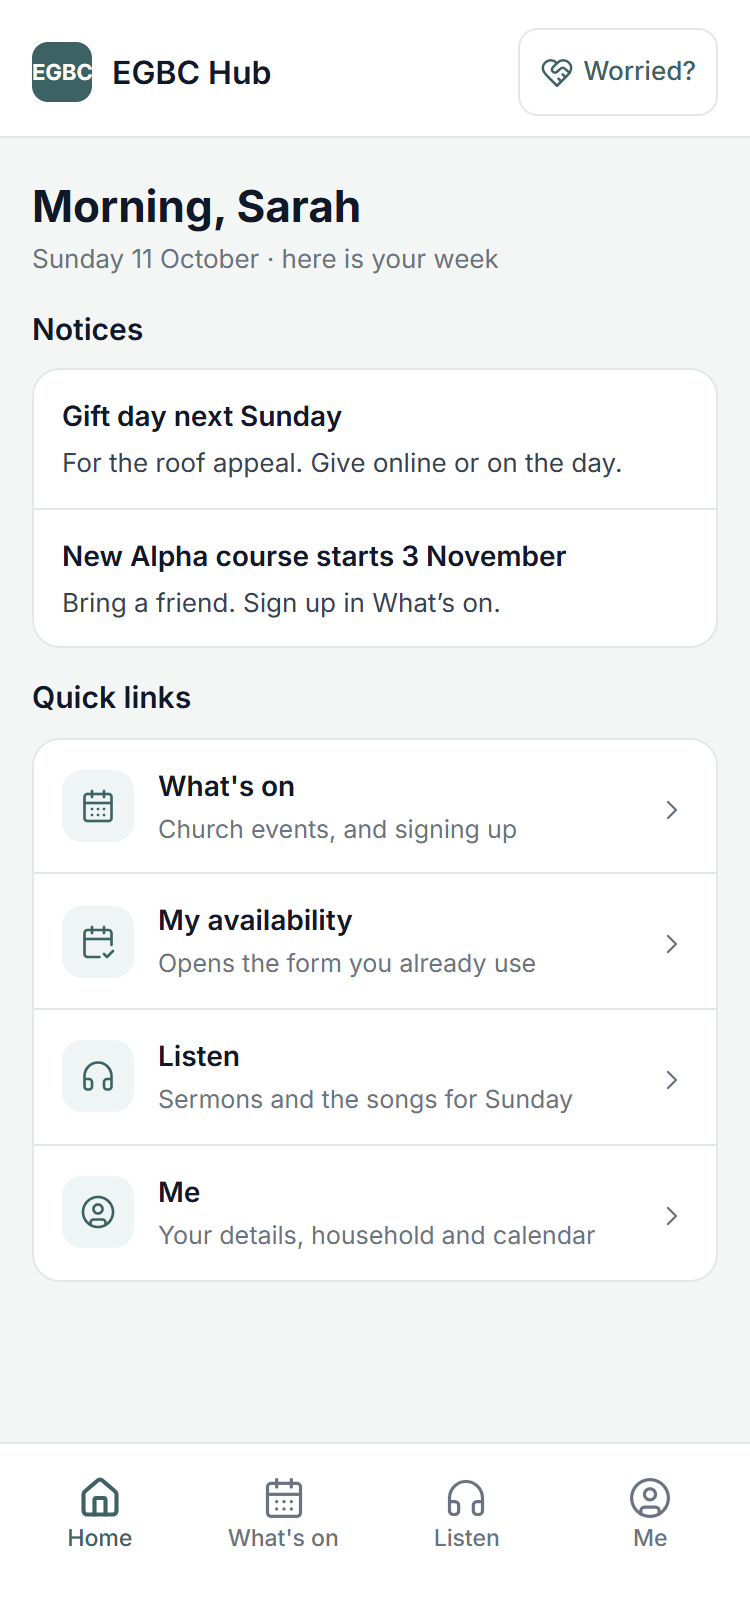
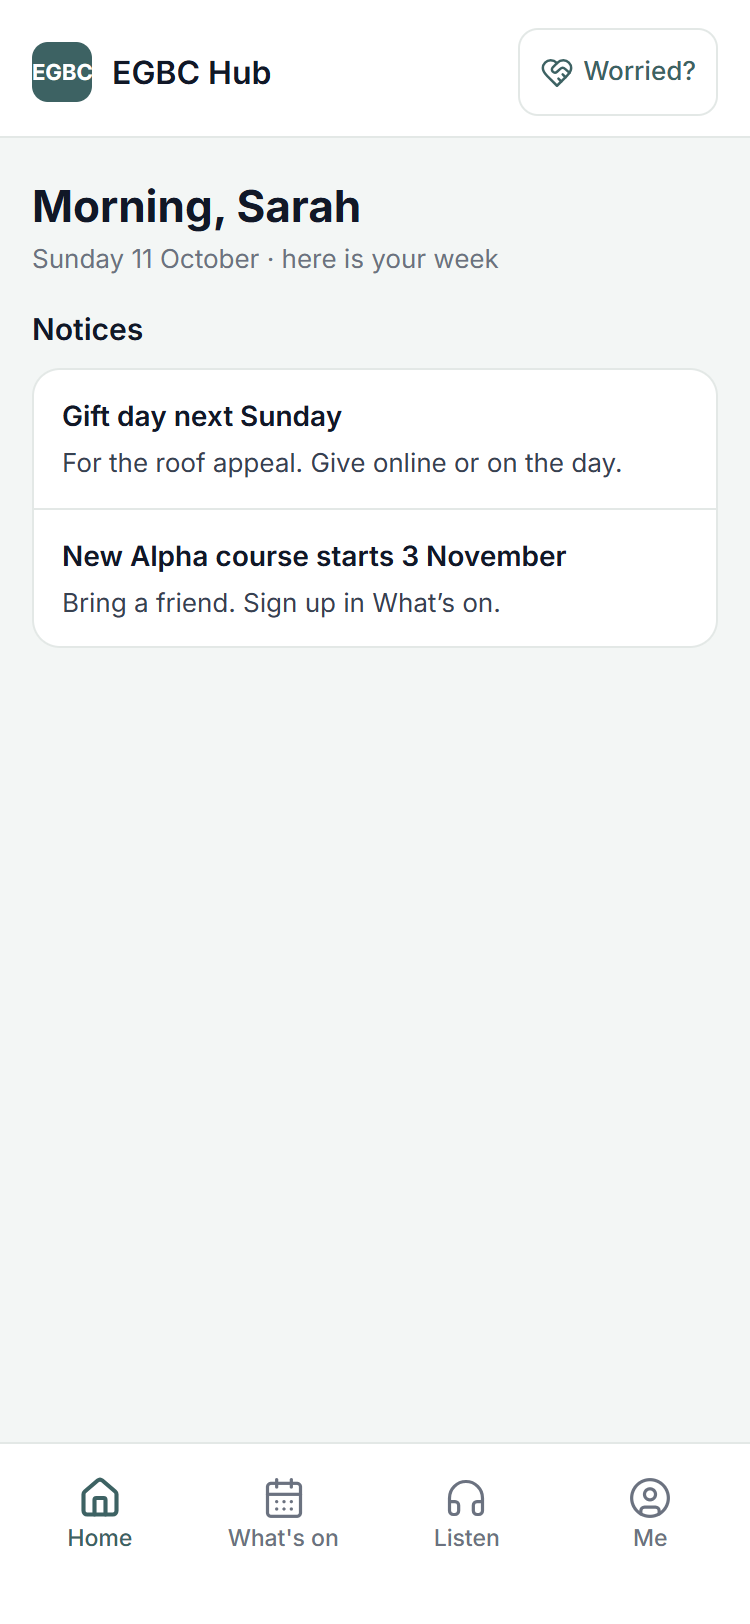
Home: the date was the seed lying, Quick links gone, arrival time first
Martin's four, after approving the look.

1. "17 OCT 2026 IS A SATURDAY" - and he is right. It was the SEEDING, not
   a date bug: the screenshot script used "today + 6 days" and labelled it
   "Sunday Morning Worship", which on the 11th lands on Saturday the 17th.
   Home read the date correctly. It now seeds the next ACTUAL Sunday and
   prints which day it picked.

   THE QUESTION IS STILL WORTH PINNING, because the way it WOULD become a
   bug is one character: new Date('2026-10-18T00:00:00') is local midnight
   and right, new Date('2026-10-18') is UTC midnight and shows the 17th
   anywhere west of Greenwich - correct in London, wrong for half the
   world, which is the worst kind. Six assertions now cover it, including
   New Year and a leap day, and one reads app.html to check Home still
   uses the local spelling. Break: switch to new Date(e.date) -> "HOME
   USES THE LOCAL ONE" fails.

2. QUICK LINKS GONE. Three of its four rows were What's on, Listen and Me,
   which are already the tabs along the bottom - a card of links to the
   tab bar is the website habit this design is meant to break. "My
   availability" is on Me, where the mock-up puts it.

   THIS BROKE AN OLDER ASSERTION, and the check caught it: F-141 had asked
   for a Listen row on Home once the screen was mounted, and it lived in
   that card. Martin's instruction is newer and plainer, so the assertion
   is inverted with the reason written in - Listen must be a TAB, and Home
[…]

diff --git a/v2/app.html b/v2/app.html
@@ -288,7 +288,7 @@ const db = firebase.firestore(EGBCAuth.app);
    the first draw shows what is already known and the rest arrives.
    refresh() is a no-op if the person has moved on (F-131). */
 
-var HOME = { loaded: false, serving: [], events: [], groups: [], family: [], news: [] };
+var HOME = { loaded: false, ready: false, serving: [], events: [], groups: [], family: [], news: [] };
 
 function homeMonth(d) {
   return ['Jan','Feb','Mar','Apr','May','Jun','Jul','Aug','Sep','Oct','Nov','Dec'][d.getMonth()];
@@ -336,8 +336,21 @@ function loadServing(memberId) {
         if (a[role] && a[role].id === memberId) roles.push(role);
       });
       if (!roles.length) return;
+      /* ARRIVAL TIME FIRST, THE SERVICE TIME OTHERWISE (Martin, 11 Oct).
+         The mock-up says "arrive 08:00", which is what a person on the
+         rota actually needs - being there for the service is too late.
+
+         NOTHING IN THE ROTA STORES ONE TODAY. An events document carries
+         date, startTime, endTime, type, teams, assignments, serviceLeader
+         and speaker, and no arrival time at all; the mock-up's "arrive
+         08:00" was example words. So this reads one if it is ever written
+         - arriveTime, or `arrives` as the planner's own comment spells it
+         - and falls back to the service time until the planner can set
+         it. Said in the report rather than a field invented quietly. */
       out.push({ when: when, date: e.date, roles: roles,
-                 title: e.type || 'Service', start: e.startTime || '',
+                 title: e.type || 'Service',
+                 arrive: e.arriveTime || e.arrives || '',
+                 start: e.startTime || '',
                  teams: Array.isArray(e.teams) ? e.teams : [] });
     });
     out.sort(function (x, y) { return x.when - y.when; });
@@ -387,7 +400,10 @@ function loadHome(me) {
     H && H.myFamilyThisSunday ? H.myFamilyThisSunday().then(function (r) { HOME.family = r || []; },
       function () {}) : Promise.resolve()
   ];
-  Promise.all(jobs).then(function () { A.refresh('me', 'home'); });
+  /* `ready` tells an empty Home the difference between still looking and
+     there being nothing. Without it, a new person reads "nothing for you
+     this week" for a second before their week appears. */
+  Promise.all(jobs).then(function () { HOME.ready = true; A.refresh('me', 'home'); });
 }
 
 A.screen('me', 'home', function (me) {
@@ -410,8 +426,9 @@ A.screen('me', 'home', function (me) {
         ? '<button class="btn" data-act="go:' + key + ':sunday">'
           + ic('list-music', 15) + ' See the plan</button>'
         : '';
+      var time = s.arrive ? 'arrive ' + s.arrive : s.start;
       return next(String(d.getDate()), homeMonth(d), s.roles.join(' and '),
-        s.title + (s.start ? ' · ' + s.start : ''), act, sp.colour, sp.tint);
+        s.title + (time ? ' · ' + time : ''), act, sp.colour, sp.tint);
     }).join(''), ['Whole rota', 'open:view-only-rota.html']);
   }
 
@@ -453,20 +470,21 @@ A.screen('me', 'home', function (me) {
     }).join('')), ['All groups', 'open:groups.html']);
   }
 
-  /* The quick ways on, which the mock-up has as its last card. Always
-     drawn, so a brand new person with nothing on their rota, no events
-     and no groups still has somewhere to go. */
-  out += sec('Quick links', card(
-      row('calendar-days', "What's on", 'Church events, and signing up', null, 'tab:whatson',
-          A.SPACES.me.colour, A.SPACES.me.tint)
-    + row('calendar-check-2', 'My availability', 'Opens the form you already use', null,
-          'open:index.html', A.SPACES.me.colour, A.SPACES.me.tint)
-    + (A.has('me', 'listen')
-        ? row('headphones', 'Listen', "Sermons and the songs for Sunday", null, 'tab:listen',
-              A.SPACES.me.colour, A.SPACES.me.tint)
-        : '')
-    + row('circle-user', 'Me', 'Your details, household and calendar', null, 'tab:me',
-          A.SPACES.me.colour, A.SPACES.me.tint)));
+  /* NO "QUICK LINKS" (Martin, 11 Oct). The mock-up has none, and three of
+     the four rows were What's on, Listen and Me - which are already the
+     tabs along the bottom. A card of links to the tab bar is the website
+     habit this design is meant to break. "My availability" is the one
+     that was not a tab, and it lives on Me, where the mock-up puts it.
+
+     WHAT A BRAND NEW PERSON SEES. With no rota, no events and no groups,
+     Home would otherwise be a greeting and nothing. One honest line, and
+     the tabs underneath, rather than a card of links. */
+  if (!HOME.serving.length && !HOME.family.length && !HOME.events.length
+      && !HOME.groups.length && !HOME.news.length) {
+    out += A.empty('calendar-days',
+      HOME.ready ? 'Nothing for you this week. What’s on has everything coming up.'
+                 : 'Finding your week…');
+  }
 
   return out;
 });
